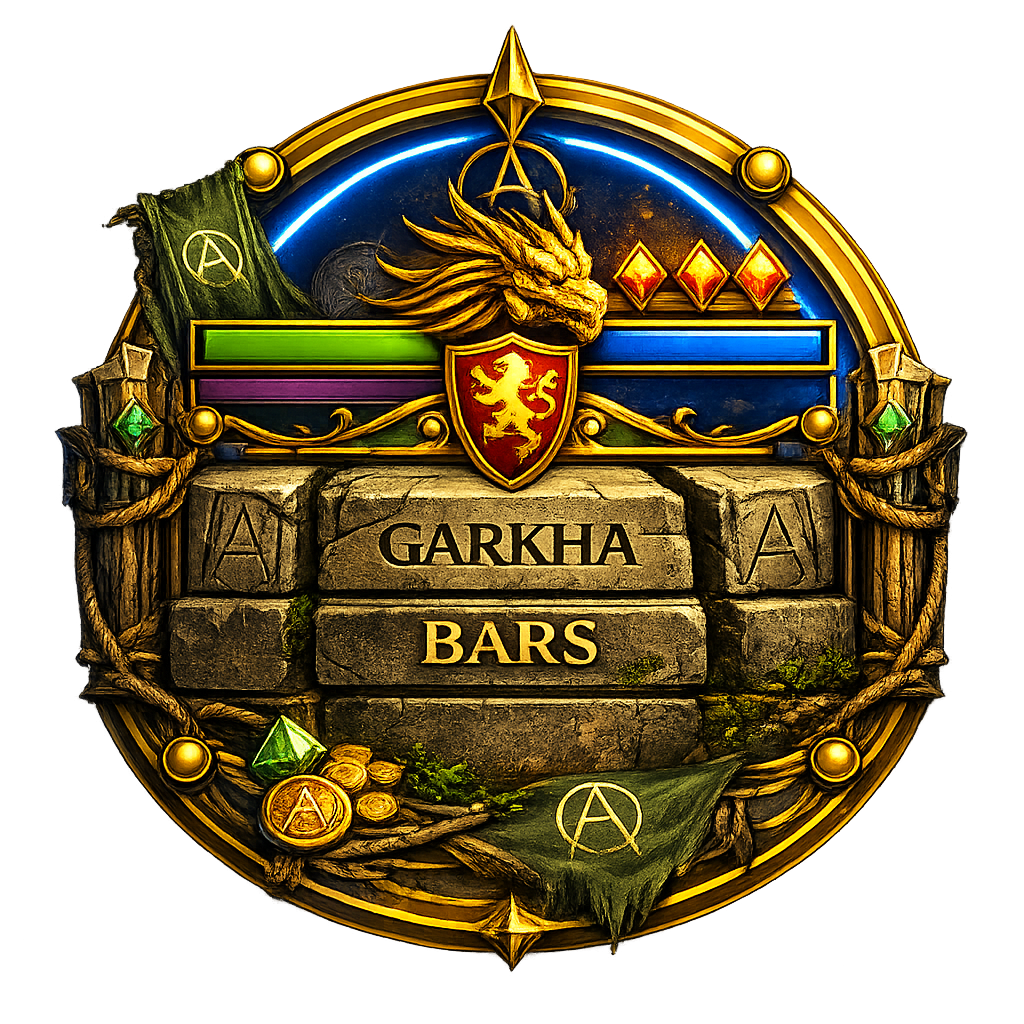
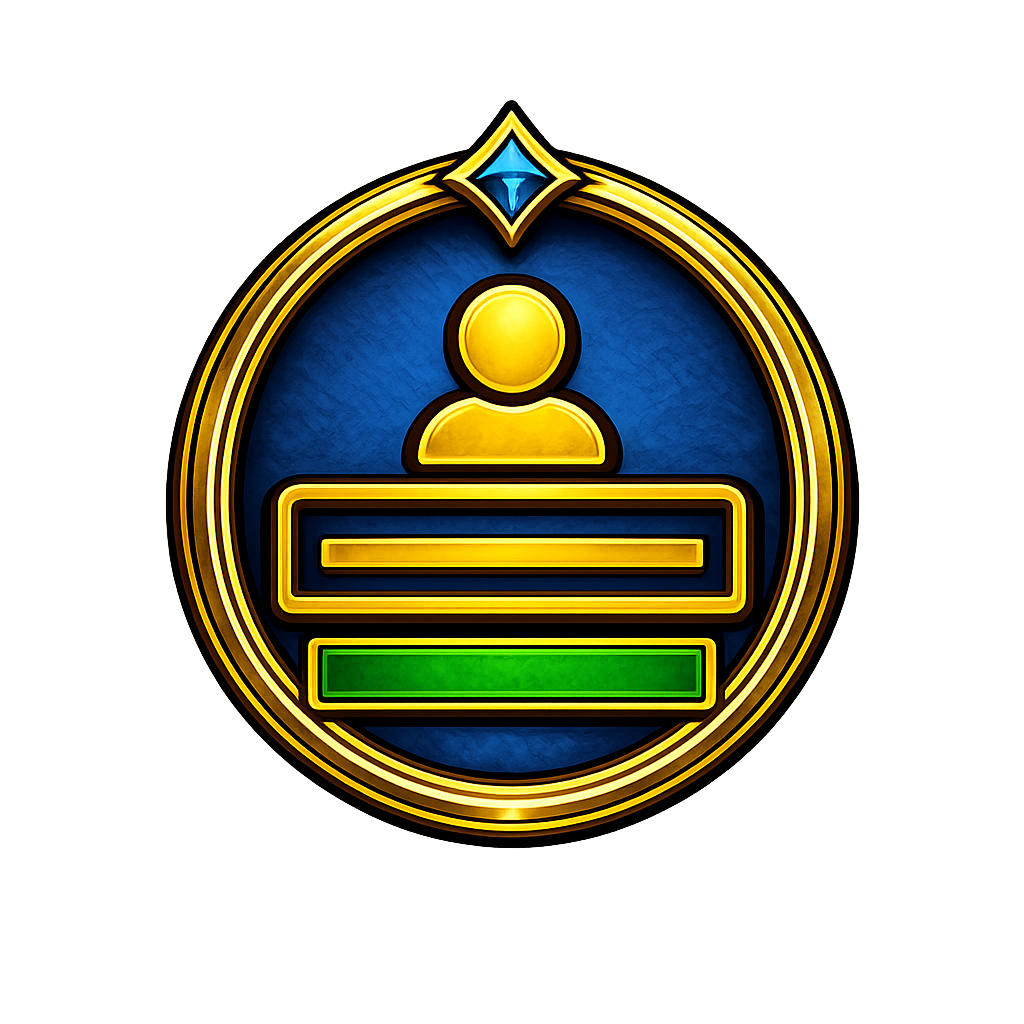
Release v1.5.53

diff --git a/README.md b/README.md
@@ -75,4 +75,4 @@ You can:
 - Holding `Shift` or `Ctrl` makes bars click-through for easier camera control in crowded fights.
 - `watchtarget` and other client-dependent surfaces still rely on what AAClassic exposes at runtime.
 
-1.5.47
+1.5.53